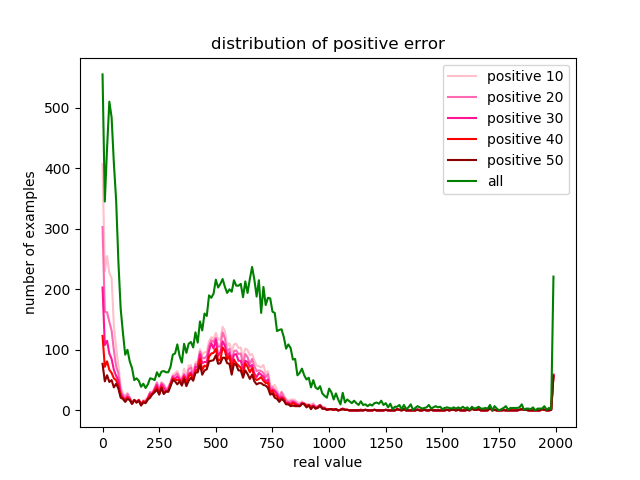
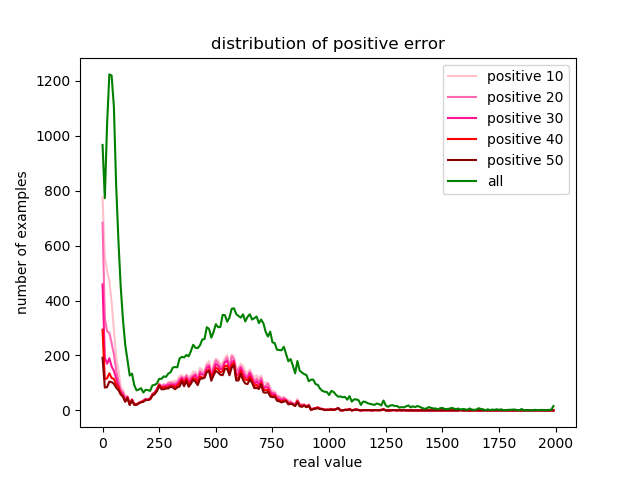
n

diff --git a/scripts/neural_network/p1p2/analyze_error_5.py b/scripts/neural_network/p1p2/analyze_error_5.py
@@ -1,0 +1,103 @@
+import pickle, torch, os, IPython, math
+import torch.nn as nn
+import numpy as np
+import pprint
+import matplotlib
+matplotlib.use('agg')
+import matplotlib.pyplot as plt
+
+from torch.utils import data
+
+from model_B_0 import Model
+from special_dataset import Dataset
+from train import loss_across_epoch
+
+model_version = 'model_B_0_Adam_0001_Weighted_Loss'
+
+def restore_checkpoint(model, checkpoint_dir):
+    files = [file for file in os.listdir(checkpoint_dir)
+        if file.startswith('epoch=') and file.endswith('.checkpoint.pth.tar')]
+
+    if not files:
+        print('No saved model parameters found')
+        exit(1)
+
+    print('Which epoch to load from in range [0, {}]?'.format(len(files)-1))
+    requested_epoch = int(input())
+    if requested_epoch not in range(len(files)):
+        print('Invalid epoch number')
+        exit(1)
+
+    filename = os.path.join(checkpoint_dir, 'epoch={}.checkpoint.pth.tar'.format(requested_epoch))
+    checkpoint = torch.load(filename)
+
+    try:
+        model.load_state_dict(checkpoint['model_state_dict'])
+        print('Successfully load the model from epoch {}'.format(requested_epoch))
+    except:
+        print('Fail to load the model from epoch {}'.format(requested_epoch))
+        exit(1)
+
+    return model
+
+
+def main():
+    with open('/mnt/big_narstie_data/chenxi/data/ground_truth_p1p2/p2_ddyn', 'r') as file:
+        p2_ddyn = pickle.load(file)
+
+    with open('/mnt/big_narstie_data/chenxi/data/ground_truth_p1p2/partition', 'r') as file:
+        partition = pickle.load(file)
+    print('number of test examples: {}'.format(len(partition['test'])))
+    test_dataset = Dataset(p2_ddyn, partition['test'])
+    test_generator = data.DataLoader(test_dataset, batch_size=512, shuffle=True, num_workers=4)
+
+    all_ddyns = []
+    all_predicted_ddyns = []
+
+    # device = torch.device('cuda' if torch.cuda.is_available() else 'cpu')
+    device = 'cpu'
+    print('device: {}'.format(device))
+    model = Model()
+    model = restore_checkpoint(model, model_version + '_checkpoint/').to(device)
+
+    model.eval()
+    with torch.set_grad_enabled(False):
+        for index, (ground_depth_maps, wall_depth_maps, p2s, ddyns, example_ids) in enumerate(test_generator):
+            print('batch ' + str(index))
+            ground_depth_maps, wall_depth_maps, p2s, ddyns = ground_depth_maps.to(device), wall_depth_maps.to(device), p2s.to(device), ddyns.to(device)
+            predicted_ddyns = model(ground_depth_maps, wall_depth_maps, p2s).squeeze()
+            all_ddyns += ddyns.tolist()
+            all_predicted_ddyns += predicted_ddyns.tolist()
+
+    covariance_matrix = np.cov(all_ddyns, all_predicted_ddyns)
+    coefficient = covariance_matrix[0][1] / math.sqrt(covariance_matrix[0][0]) / math.sqrt(covariance_matrix[1][1])
+    print('coefficient of all: ' + str(coefficient))
+
+    mask = np.array(all_ddyns) < 200
+    small_ddyns = np.array(all_ddyns)[np.argwhere(mask == True).reshape(-1,)]
+    small_predicted_ddyns = np.array(all_predicted_ddyns)[np.argwhere(mask == True).reshape(-1,)]
+    small_covariance_matrix = np.cov(small_ddyns.tolist(), small_predicted_ddyns.tolist())
+    small_coefficient = small_covariance_matrix[0][1] / math.sqrt(small_covariance_matrix[0][0]) / math.sqrt(small_covariance_matrix[1][1])
+    print('coefficient of small: ' + str(small_coefficient))
+    # covariance matrix:
+    # [[119942.76214571  89306.90088912]
+    #  [ 89306.90088912  93197.306531  ]]
+    # correlation: 0.8446879822072368
+    #
+    # for small data (real value < 200)
+    # covariance matrix:
+    # [[1603.5883441   1418.07456518]
+    #  [1418.07456518  8677.19421232]]
+    # correlation: 0.3801569749444143
+
+
+    IPython.embed()
+            
+            
+    
+
+
+if __name__ == '__main__':
+    main()
+
+    

diff --git a/scripts/neural_network/p1p2/train.py b/scripts/neural_network/p1p2/train.py
@@ -11,7 +11,7 @@ from torch.optim.lr_scheduler import ReduceLROnPlateau
 from model_B_0 import Model
 from dataset import Dataset
 
-model_version = 'model_B_0_0001_Adam_L1Loss'
+model_version = 'model_B_0_Adam_0001_Weighted_Loss'
 
 def save_checkpoint(epoch, model, optimizer, scheduler, checkpoint_dir):
     state = {
@@ -33,13 +33,13 @@ def loss_across_epoch(loss_list, length_list):
     return total_loss / total_length
 
 
-# class Weighted_Loss(torch.nn.Module):
-#     def __init__(self):
-#         super(Weighted_Loss, self).__init__()
+class Weighted_Loss(torch.nn.Module):
+    def __init__(self):
+        super(Weighted_Loss, self).__init__()
 
-#     def forward(self, Input, Target):
-#         loss = Input - Target
-#         return torch.mean((3 - (-1)*torch.sign(loss)) / 2 * (7 / (1 + 0.01 * Target)) * torch.abs(loss))        
+    def forward(self, Input, Target):
+        loss = Input - Target
+        return torch.mean((3 - (-1)*torch.sign(loss)) / 2 * (7 / (1 + 0.01 * Target)) * torch.abs(loss))        
 
 
 def main():
@@ -65,8 +65,8 @@ def main():
     learning_rate = 0.001
     optimizer = optim.Adam(model.parameters(), lr=learning_rate)
     scheduler = ReduceLROnPlateau(optimizer, verbose=True)
-    # criterion = Weighted_Loss()
-    criterion = nn.L1Loss()
+    criterion = Weighted_Loss()
+    # criterion = nn.L1Loss()
     
     start_from_saved_model = False
     if os.path.exists(model_version + '_checkpoint/'):
@@ -154,6 +154,7 @@ def main():
             predicted_ddyns = model(ground_depth_maps, wall_depth_maps, p2s).squeeze()
             loss = criterion(predicted_ddyns, ddyns)
             loss.backward()
+            # torch.nn.utils.clip_grad_norm_(model.parameters(), max_norm=10)
             optimizer.step()
         save_checkpoint(epoch + finished_epoch_last_time + 1, model, optimizer, scheduler, model_version + '_checkpoint/')
 

diff --git a/scripts/neural_network/p1p2/analyze_error_3.py b/scripts/neural_network/p1p2/analyze_error_3.py
@@ -8,11 +8,11 @@ import matplotlib.pyplot as plt
 
 from torch.utils import data
 
-from model_v3 import Model
+from model_B_0 import Model
 from special_dataset import Dataset
 from train import loss_across_epoch
 
-model_version = 'model_v3_00005'
+model_version = 'model_B_0_0001_Adam_L1Loss'
 
 def restore_checkpoint(model, checkpoint_dir):
     files = [file for file in os.listdir(checkpoint_dir)
@@ -32,7 +32,7 @@ def restore_checkpoint(model, checkpoint_dir):
     checkpoint = torch.load(filename)
 
     try:
-        model.load_state_dict(checkpoint['state_dict'])
+        model.load_state_dict(checkpoint['model_state_dict'])
         print('Successfully load the model from epoch {}'.format(requested_epoch))
     except:
         print('Fail to load the model from epoch {}'.format(requested_epoch))

diff --git a/scripts/neural_network/p1p2/special_dataset.py b/scripts/neural_network/p1p2/special_dataset.py
@@ -13,7 +13,7 @@ class Dataset(data.Dataset):
     def __getitem__(self, index):
         # example_id is a string
         example_id = self.example_ids[index]
-        depth_map_id, p2, ddyn = self.p2_ddyn[example_id]
+        depth_map_id, p2, _, ddyn = self.p2_ddyn[example_id]
         with open('/mnt/big_narstie_data/chenxi/data/ground_truth_p1p2/ground_depth_maps/' + depth_map_id, 'r') as file:
             ground_depth_map = pickle.load(file)
         with open('/mnt/big_narstie_data/chenxi/data/ground_truth_p1p2/wall_depth_maps/' + depth_map_id, 'r') as file:
